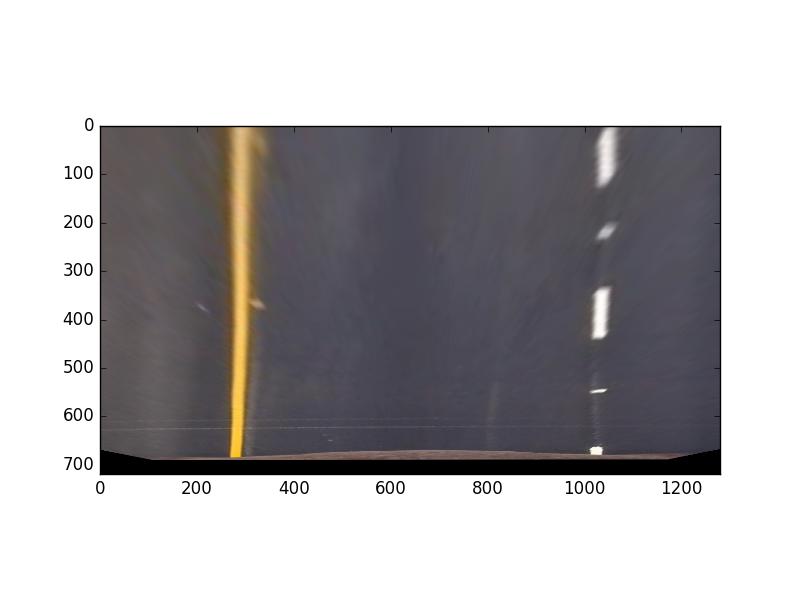
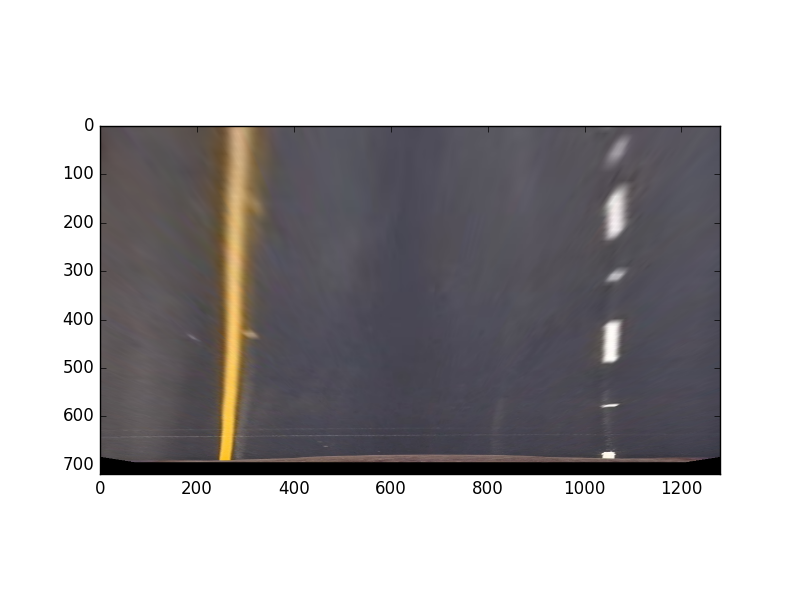
Major refactoring

diff --git a/lanelines.py b/lanelines.py
@@ -1,34 +1,181 @@
 from itertools import groupby, islice, zip_longest, cycle, filterfalse
+from matplotlib.widgets import Button
 import cv2
 import glob
-import matplotlib.pyplot as plt
 import matplotlib.image as mpimg
+import matplotlib.pyplot as plt
 import numpy as np
+
+# Masking
+
+def region_of_interest(img, vertices):
+    mask = np.zeros_like(img)   
+
+
+top = lambda img: 0
+bottom = lambda img: int(img.shape[0])
+hood = lambda img: bottom(img)*(1-theta['hood'])
+left = lambda img: 0
+right = lambda img: img.shape[1]
+width = lambda img: right(img) - left(img)
+height = lambda img: bottom(img) - top(img)
+horizon = lambda img: int(img.shape[0]*theta['horizon'])
+centerline = lambda img: int(img.shape[1]*0.5)
+center = lambda img: [horizon(img), centerline(img)]
+ground = lambda img: np.array([[[horizon(img), left(img)],
+                                [horizon(img), right(img)],
+                                [bottom(img), right(img)],
+                                [bottom(img), left(img)]]])
+sky = lambda img: np.array([[[top(img), left(img)],
+                             [top(img), right(img)],
+                             [bottom(img), right(img)],
+                             [bottom(img), left(img)]]])
+trapezoid = lambda img: np.array([[[horizon(img), centerline(img)-theta['trapezoid_top_factor']*width(img)/2],
+                                   [horizon(img), centerline(img)+theta['trapezoid_top_factor']*width(img)/2],
+                                   [hood(img), centerline(img)+theta['trapezoid_bottom_factor']*width(img)/2],
+                                   [hood(img), centerline(img)-theta['trapezoid_bottom_factor']*width(img)/2]]]).astype(int)
+trapezoid_pts = lambda img,m,b: ((int(x(hood(img),m,b)), int(hood(img))),
+                                 (int(x(horizon(img),m,b)), int(horizon(img))))
+
+
+def mask_image(img, vertices):
+    return region_of_interest(img, vertices)
+
 
 # Camera Calibration
 
-objp = np.zeros((9*6,3), np.float32)
-objp[:,:2] = np.mgrid[0:9,0:6].T.reshape(-1,2)
+def measure_distortion(calibration_files):
+    files = calibration_files
+    objp = np.zeros((9*6,3), np.float32)
+    objp[:,:2] = np.mgrid[0:9,0:6].T.reshape(-1,2)
+    stage1 = map(lambda x: (x,), cycle(files))
+    stage2 = map(lambda x: x + (cv2.imread(x[0]),), stage1)
+    stage3 = map(lambda x: x + (cv2.findChessboardCorners(cv2.cvtColor(x[1], cv2.COLOR_BGR2GRAY), (9,6)),), stage2)
+    stage4 = map(lambda x: x + (cv2.drawChessboardCorners(np.copy(x[1]), (9,6), *(x[2][::-1])),), stage3)
+    filenames,images,corners,annotated_images = zip(*filter(lambda x: x[2][0], islice(stage4, len(files))))
+    _,imgpoints = zip(*corners)
+    objpoints = [objp for i in range(len(imgpoints))]
+    ret, mtx, dist, rvecs, tvecs = cv2.calibrateCamera(objpoints, imgpoints, list(islice(stage2,1))[0][1].shape[:2:][::-1], None, None)
+    return mtx, dist, annotated_images
 
-files = glob.glob("camera_cal/*.jpg")
-stage1 = map(lambda x: (x,), cycle(files))
-stage2 = map(lambda x: x + (cv2.imread(x[0]),), stage1)
-stage3 = map(lambda x: x + (cv2.findChessboardCorners(cv2.cvtColor(x[1], cv2.COLOR_BGR2GRAY), (9,6)),), stage2)
-stage4 = map(lambda x: x + (cv2.drawChessboardCorners(np.copy(x[1]), (9,6), *(x[2][::-1])),), stage3)
-filenames,images,corners,annotated_images = zip(*filter(lambda x: x[2][0], islice(stage4, len(files))))
-_,imgpoints = zip(*corners)
-objpoints = [objp for i in range(len(imgpoints))]
-ret, mtx, dist, rvecs, tvecs = cv2.calibrateCamera(objpoints, imgpoints, list(islice(stage2,1))[0][1].shape[:2:][::-1], None, None)
-
-plt.ioff()
-plt.imshow(annotated_images[0])
-plt.savefig("fig1.png", format="png", bbox_inches="tight")
-plt.close()
 
 # Distortion Correction
 
+def get_undistorter(calibration_files):
+    mtx,dist,annotated_images = measure_distortion(calibration_files)
+    return lambda x: cv2.undistort(x, mtx, dist, None, mtx), annotated_images
+
+
+# Perspective Transform
+
+def measure_warp(corrected_image):
+    def handler(e):
+        if len(src)<1:
+            plt.axvline(int(e.xdata), linewidth=2, color='r')
+        if len(src)<4:
+            src.append((int(e.xdata),int(e.ydata)))
+        if len(src)<3:
+            plt.axhline(int(e.ydata), linewidth=2, color='r')
+        if len(src)==4:
+            plt.axvline(int(e.xdata), linewidth=2, color='r')
+            dst.extend([src[0], (src[0][0],src[1][1]), (src[3][0],src[2][1]), src[3]])
+        else:
+            pass
+    plt.ion()
+    fig = plt.figure()
+    plt.imshow(corrected_image)
+    global src
+    global dst
+    src = []
+    dst = []
+    cid1 = fig.canvas.mpl_connect('button_press_event', handler)
+    cid2 = fig.canvas.mpl_connect('close_event', lambda e: e.canvas.stop_event_loop())
+    fig.canvas.start_event_loop(timeout=-1)
+    M = cv2.getPerspectiveTransform(np.asfarray(src, np.float32), np.asfarray(dst, np.float32))
+    Minv = cv2.getPerspectiveTransform(np.asfarray(dst, np.float32), np.asfarray(src, np.float32))
+    plt.ioff()
+    return M, Minv
+
+
+def get_unwarper(corrected_image):
+    M, Minv = measure_warp(corrected_image)
+    return lambda x: cv2.warpPerspective(x, M, x.shape[:2][::-1], flags=cv2.INTER_LINEAR)
+
+
+def scale(img):
+    scale_factor = np.max(img)/255
+    return (img/scale_factor).astype(np.uint8)
+
+
+def derivative(img):
+    derivx = np.absolute(cv2.Sobel(img, cv2.CV_64F, 1, 0))
+    derivy = np.absolute(cv2.Sobel(img, cv2.CV_64F, 0, 1))
+    gradmag = np.sqrt(derivx**2 + derivy**2)
+    absgraddir = np.arctan2(np.absolute(derivy), np.absolute(derivx))
+    return scale(derivx), scale(derivy), scale(gradmag), scale(absgraddir)
+
+
+def threshold(img, thresh_min=0, thresh_max=255):
+    binary_output = np.zeros_like(img)
+    binary_output[(img >= thresh_min) & (img <= thresh_max)] = 1
+    return binary_output
+
+
+def pipeline2(img):
+    img = np.copy(img)
+    hsv = cv2.cvtColor(img, cv2.COLOR_BGR2HLS).astype(np.float)
+    h = hsv[:,:,0]
+    l = hsv[:,:,1]
+    s = hsv[:,:,2]
+    derivx, derivy, gradmag, absgraddir = derivative(img)
+
+
+def pipeline(img, s_thresh=(170, 255), sx_thresh=(20, 100)):
+    img = np.copy(img)
+    # img = mask_image(img, trapezoid(img)[:,:,::-1])
+    hsv = cv2.cvtColor(img, cv2.COLOR_BGR2HLS).astype(np.float)
+    h_channel = hsv[:,:,0]
+    l_channel = hsv[:,:,1]
+    s_channel = hsv[:,:,2]
+    # Sobel x
+    sobelx = cv2.Sobel(l_channel, cv2.CV_64F, 1, 0) # Take the derivative in x
+    abs_sobelx = np.absolute(sobelx) # Absolute x derivative to accentuate lines away from horizontal
+    scaled_sobel = np.uint8(255*abs_sobelx/np.max(abs_sobelx))
+    # Threshold x gradient
+    sxbinary = np.zeros_like(scaled_sobel)
+    sxbinary[(scaled_sobel >= sx_thresh[0]) & (scaled_sobel <= sx_thresh[1])] = 1
+    # Threshold color channel
+    s_binary = np.zeros_like(s_channel)
+    s_binary[(s_channel >= s_thresh[0]) & (s_channel <= s_thresh[1])] = 1
+    # Stack each channel
+    # Note color_binary[:, :, 0] is all 0s, effectively an all black image. It might
+    # be beneficial to replace this channel with something else.
+    color_binary = np.dstack(( np.zeros_like(sxbinary), sxbinary, s_binary))
+    return color_binary
+
+
+################################################################################
+
+theta = {'horizon':0.61,
+         'hood':0.07,
+         'trapezoid_top_factor':0.10,
+         'trapezoid_bottom_factor':0.90,
+         'angle_cutoff':0.75,
+         'kernel_size':5,
+         'low_threshold':50,
+         'high_threshold':150,
+         'rho':2,
+         'theta':1,
+         'threshold':30,
+         'min_line_length':3,
+         'max_line_gap':1}
+
+undistort, annotated_images = get_undistorter(glob.glob("camera_cal/*.jpg"))
+plt.imshow(annotated_images[0])
+plt.savefig("fig1.png", format="png", bbox_inches="tight")
+plt.close()
 distorted_image = plt.imread("test_images/straight_lines1.jpg")
-corrected_image = cv2.undistort(distorted_image, mtx, dist, None, mtx)
+corrected_image = undistort(distorted_image)
 f, (ax1, ax2) = plt.subplots(1, 2, figsize=(24,9))
 f.tight_layout()
 ax1.imshow(distorted_image)
@@ -38,30 +185,19 @@ ax2.set_title("Corrected Image")
 plt.savefig("fig2.png", format="png", bbox_inches="tight")
 plt.close()
 
-# Perspective Transform
+result = pipeline(corrected_image)
+f, (ax1, ax2) = plt.subplots(1, 2, figsize=(24, 9))
+f.tight_layout()
+ax1.imshow(corrected_image)
+ax1.set_title('Original Image', fontsize=40)
+ax2.imshow(result)
+ax2.set_title('Pipeline Result', fontsize=40)
+plt.subplots_adjust(left=0., right=1, top=0.9, bottom=0.)
 
-def handler(e):
-    if len(src)<4:
-        src.append((int(e.xdata),int(e.ydata)))
-    if len(src)<3:
-        plt.axhline(int(e.ydata), linewidth=2, color='r')
-    if len(src)>=4:
-        dst.extend([src[0], (src[0][0],src[1][1]), (src[3][0],src[2][1]), src[3]])
-
-plt.ion()
+unwarp = get_unwarper(corrected_image)
+flat_image = unwarp(corrected_image)
 fig = plt.figure()
-plt.imshow(corrected_image)
-global src
-global dst
-src = []
-dst = []
-cid = fig.canvas.mpl_connect('button_press_event', handler)
-
-M = cv2.getPerspectiveTransform(np.asfarray(src, np.float32), np.asfarray(dst, np.float32))
-Minv = cv2.getPerspectiveTransform(np.asfarray(dst, np.float32), np.asfarray(src, np.float32))
-
-warped_image = cv2.warpPerspective(corrected_image, M, corrected_image.shape[:2][::-1], flags=cv2.INTER_LINEAR)
-plt.ioff()
-fig = plt.figure()
-plt.imshow(warped_image)
+plt.imshow(flat_image)
 plt.savefig("fig3.png", format="png")
+plt.close()
+
